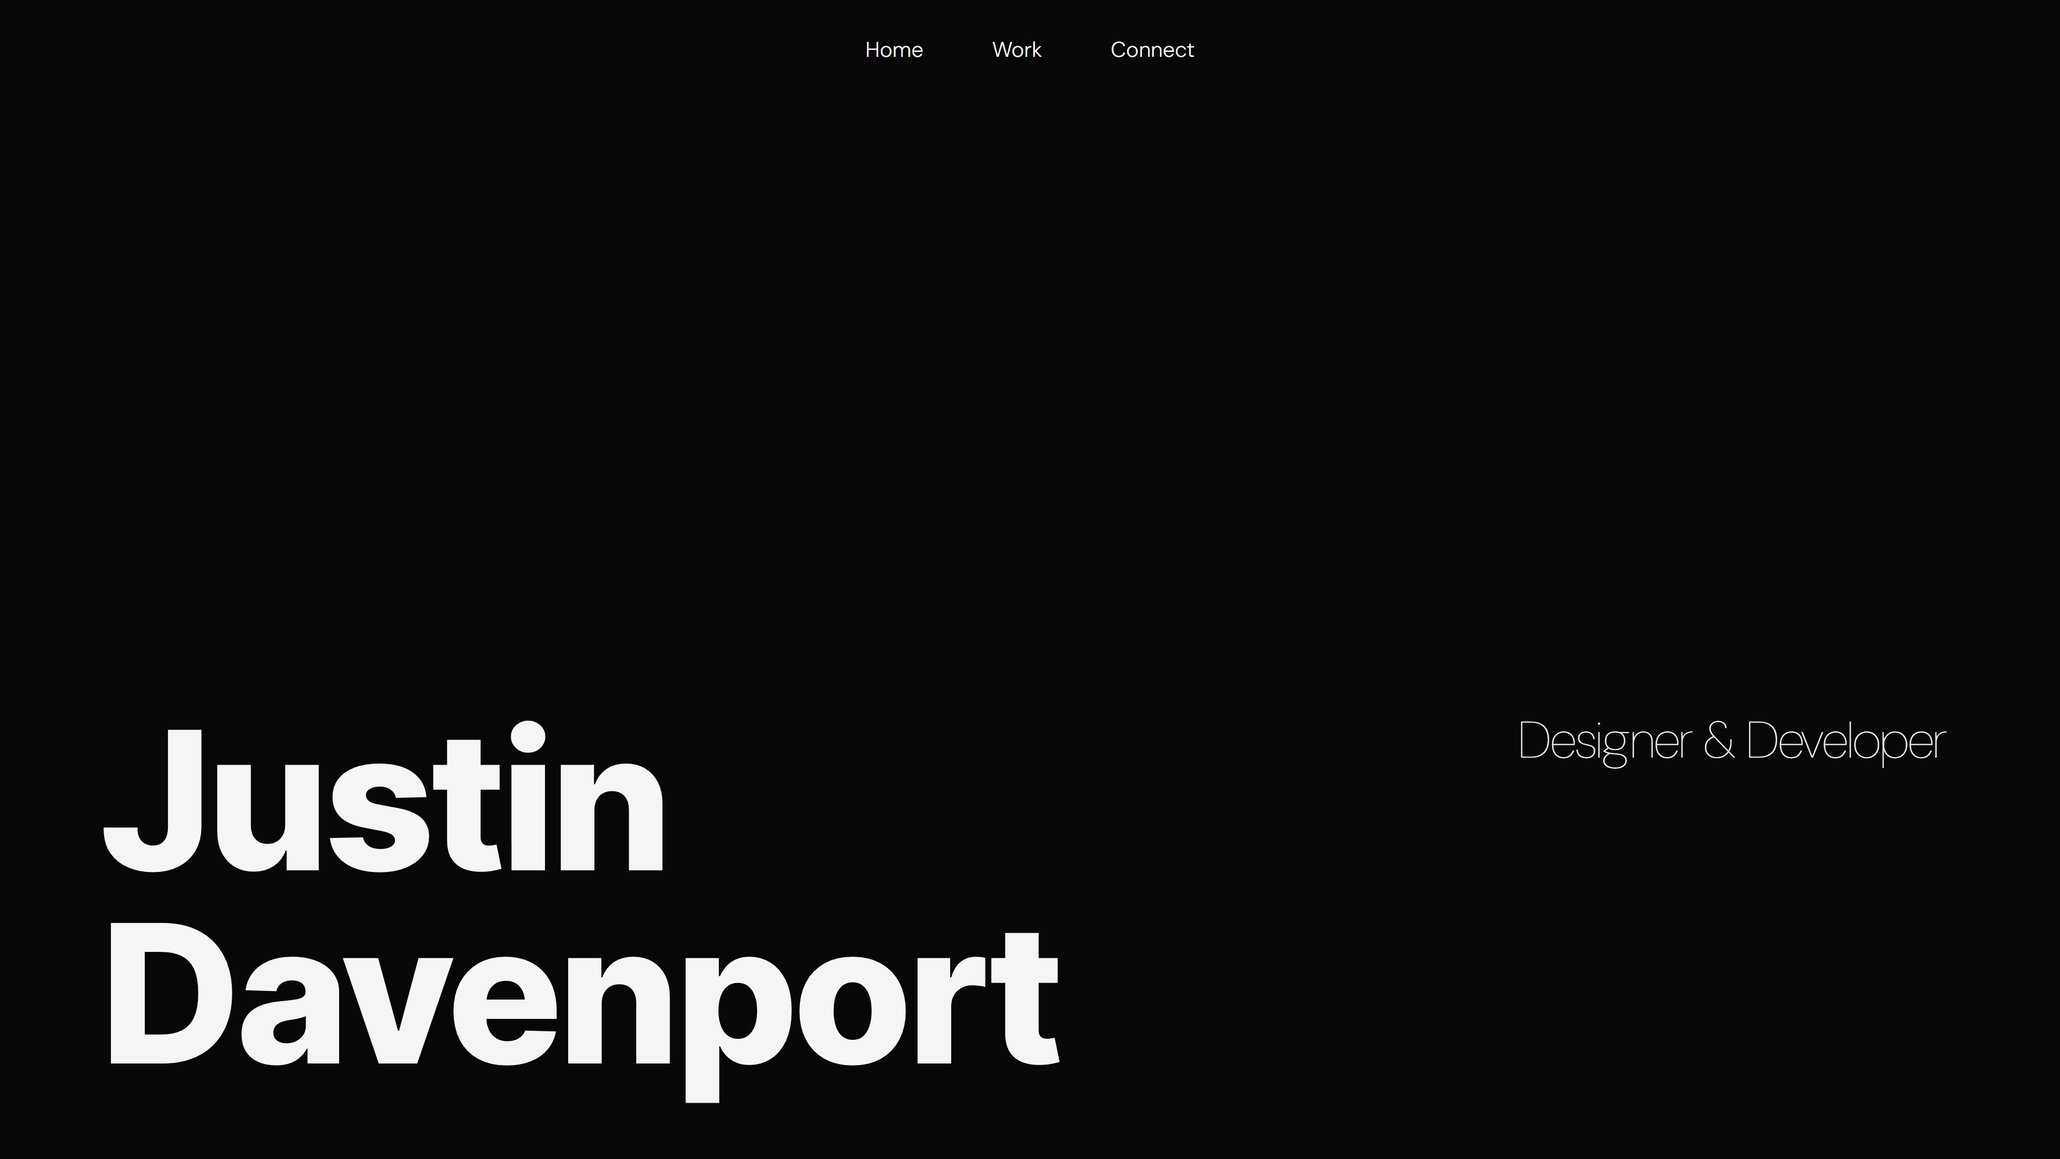
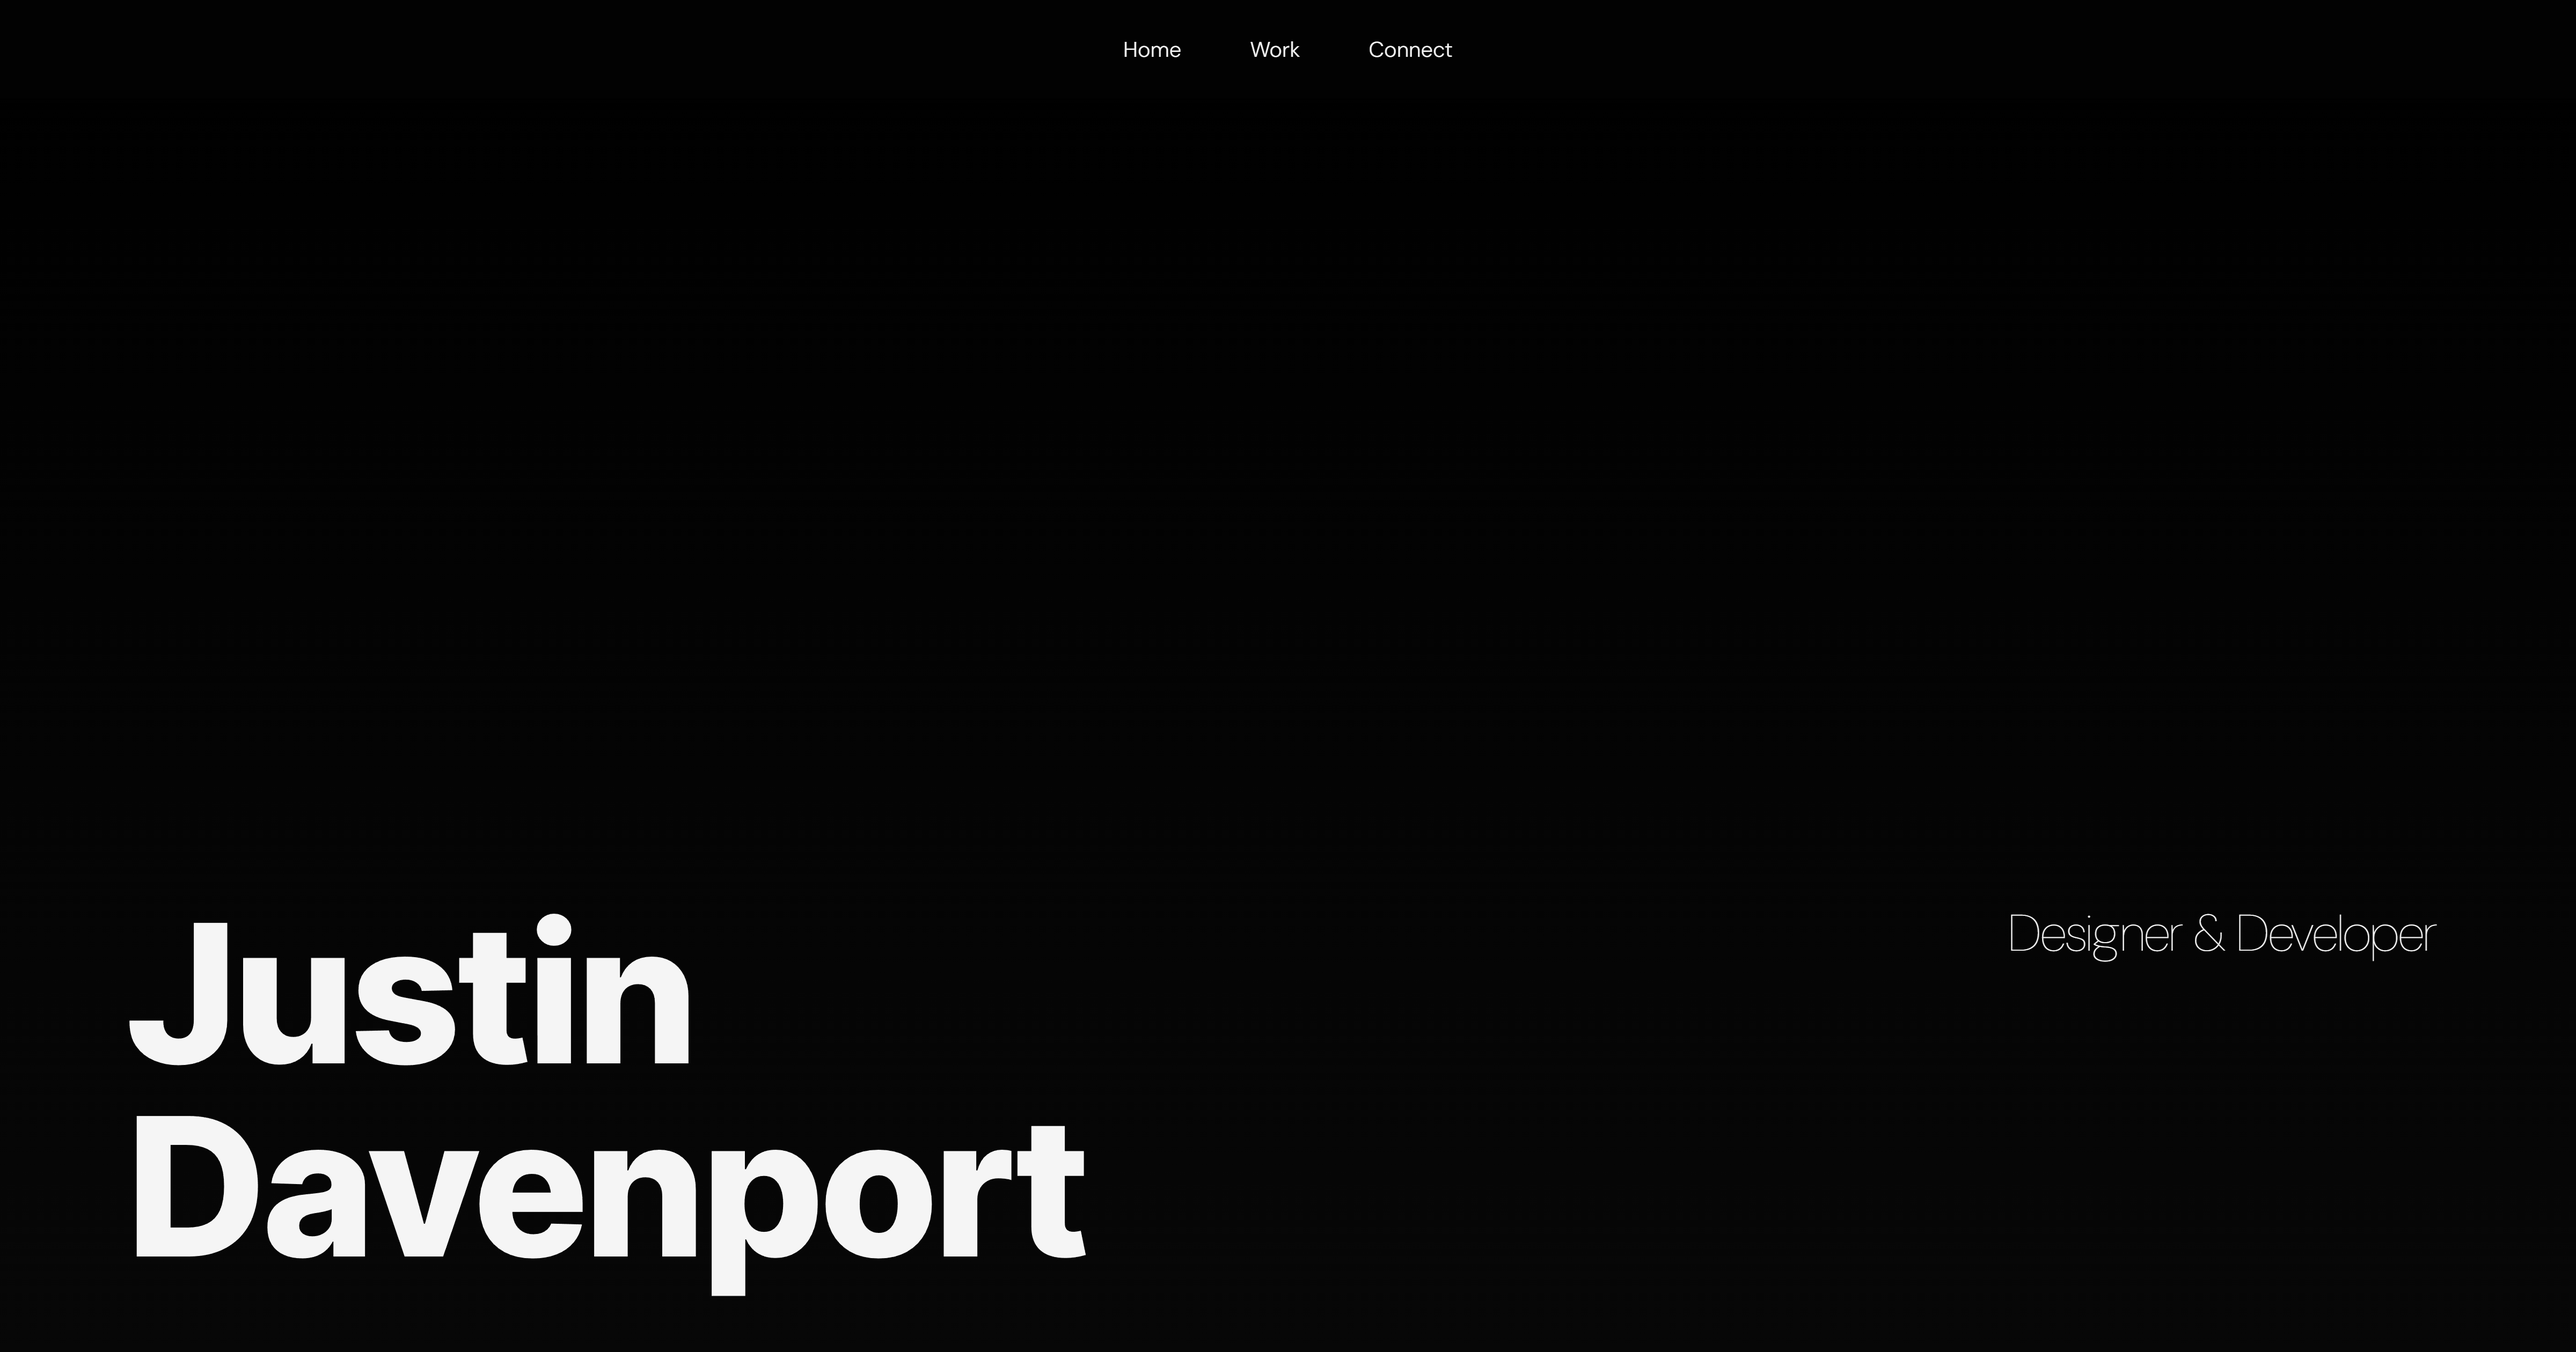
anim

diff --git a/src/app/page.tsx b/src/app/page.tsx
@@ -94,10 +94,12 @@ export default function Home() {
   const ref2 = useRef<HTMLDivElement>(null);
   const ref3 = useRef<HTMLDivElement>(null);
   const ref4 = useRef<HTMLDivElement>(null);
+  const ref5 = useRef<HTMLDivElement>(null);
   const isInView1 = useInView(ref1, { once: true });
   const isInView2 = useInView(ref2, { once: true });
   const isInView3 = useInView(ref3, { once: true });
   const isInView4 = useInView(ref4, { once: true });
+  const isInView5 = useInView(ref5, { once: true });
   const [isVisible, setIsVisible] = useState(false);
   const controls = useAnimation();
 
@@ -144,16 +146,49 @@ export default function Home() {
       <main>
         <div className="nav" ref={nav}>
           <div className="nav-sub">
-            <button onClick={() => scrollTo(homeDiv)}>Home</button>
-            <button onClick={() => scrollTo(workDiv)}>Work</button>
+            <motion.button
+              onClick={() => scrollTo(homeDiv)}
+              whileHover={{ scale: 0.9 }}
+              transition={{
+                type: "spring",
+                stiffness: 260,
+                damping: 20,
+              }}
+            >
+              Home
+            </motion.button>
+            <motion.button
+              onClick={() => scrollTo(workDiv)}
+              whileHover={{ scale: 0.9 }}
+              transition={{
+                type: "spring",
+                stiffness: 260,
+                damping: 20,
+              }}
+            >
+              Work
+            </motion.button>
             {/* <button onClick={() => scrollTo(aboutDiv)}>About</button> */}
-            <button onClick={() => scrollTo(contractDiv)}>Connect</button>
+            <motion.button
+              onClick={() => scrollTo(contractDiv)}
+              whileHover={{ scale: 0.9 }}
+              transition={{
+                type: "spring",
+                stiffness: 260,
+                damping: 20,
+              }}
+            >
+              Connect
+            </motion.button>
           </div>
         </div>
 
         <div
           className="container-holder"
-          style={{ alignItems: "flex-end" }}
+          style={{
+            alignItems: "flex-end",
+            background: "linear-gradient(to bottom, black, #070707)",
+          }}
           ref={homeDiv}
         >
           <div className="container">
@@ -205,7 +240,7 @@ export default function Home() {
                   rel="noopener noreferrer"
                 >
                   ocularvibrations.com&nbsp;
-                  <button
+                  <motion.button
                     style={{
                       width: "2.5rem",
                       height: "2.5rem",
@@ -213,9 +248,15 @@ export default function Home() {
                       borderRadius: "100rem",
                       color: "#070707",
                     }}
+                    whileHover={{ scale: 0.9 }}
+                    transition={{
+                      type: "spring",
+                      stiffness: 260,
+                      damping: 20,
+                    }}
                   >
                     <i className="fa-solid fa-location-arrow fa-xs"></i>
-                  </button>
+                  </motion.button>
                 </Link>
               </div>
             </div>
@@ -344,7 +385,7 @@ export default function Home() {
                   rel="noopener noreferrer"
                 >
                   christiandavenport.studio&nbsp;
-                  <button
+                  <motion.button
                     style={{
                       width: "2.5rem",
                       height: "2.5rem",
@@ -352,9 +393,15 @@ export default function Home() {
                       borderRadius: "100rem",
                       color: "#070707",
                     }}
+                    whileHover={{ scale: 0.9 }}
+                    transition={{
+                      type: "spring",
+                      stiffness: 260,
+                      damping: 20,
+                    }}
                   >
                     <i className="fa-solid fa-location-arrow fa-xs"></i>
-                  </button>
+                  </motion.button>
                 </Link>
               </div>
             </div>
@@ -485,7 +532,7 @@ export default function Home() {
                   rel="noopener noreferrer"
                 >
                   stack.com&nbsp;
-                  <button
+                  <motion.button
                     style={{
                       width: "2.5rem",
                       height: "2.5rem",
@@ -493,9 +540,15 @@ export default function Home() {
                       borderRadius: "100rem",
                       color: "#070707",
                     }}
+                    whileHover={{ scale: 0.9 }}
+                    transition={{
+                      type: "spring",
+                      stiffness: 260,
+                      damping: 20,
+                    }}
                   >
                     <i className="fa-solid fa-location-arrow fa-xs"></i>
-                  </button>
+                  </motion.button>
                 </Link>
               </div>
             </div>
@@ -665,7 +718,12 @@ export default function Home() {
           </div>
         </div> */}
 
-        <div className="container-holder">
+        <div
+          className="container-holder"
+          style={{
+            background: "linear-gradient(to bottom, #070707, black)",
+          }}
+        >
           <div className="container" ref={contractDiv}>
             <div
               style={{
@@ -678,12 +736,24 @@ export default function Home() {
             <div
               style={{
                 display: "flex",
-                paddingTop: "14rem",
+                paddingTop: "4rem",
                 paddingBottom: "4rem",
-                justifyContent: "center",
+                alignItems: "center",
+                flexDirection: "column",
               }}
               ref={ref4}
             >
+              <Image
+                src="/assets/me.jpg"
+                width={250}
+                height={250}
+                alt={""}
+                style={{
+                  borderRadius: "100rem",
+                  width: "250px",
+                  height: "250px",
+                }}
+              />
               <h2
                 style={{
                   opacity: isInView4 ? 1 : 0,
@@ -697,7 +767,7 @@ export default function Home() {
               style={{
                 display: "flex",
                 flexWrap: "wrap",
-                paddingBottom: "14rem",
+                paddingBottom: "8rem",
                 justifyContent: "center",
               }}
             >
@@ -711,15 +781,24 @@ export default function Home() {
                   flexDirection: "column",
                   paddingBlock: "0rem",
                 }}
+                ref={ref5}
               >
                 <h3>Social</h3>
                 <hr />
-                <div
+                <motion.div
                   style={{
                     gap: "0.4rem",
                     display: "flex",
                     width: "fit-content",
                     justifyContent: "center",
+                    scale: isInView5 ? 1 : 0,
+                  }}
+                  animate={{ scale: isInView5 ? 1 : 0 }}
+                  transition={{
+                    type: "spring",
+                    stiffness: 260,
+                    damping: 20,
+                    delay: 0.8,
                   }}
                 >
                   <Link
@@ -727,7 +806,7 @@ export default function Home() {
                     target="_blank"
                     rel="noopener noreferrer"
                   >
-                    <button
+                    <motion.button
                       style={{
                         width: "4rem",
                         height: "4rem",
@@ -735,16 +814,22 @@ export default function Home() {
                         borderRadius: "100rem",
                         color: "#070707",
                       }}
+                      whileHover={{ scale: 0.85 }}
+                      transition={{
+                        type: "spring",
+                        stiffness: 260,
+                        damping: 20,
+                      }}
                     >
                       <i className="fa-brands fa-instagram fa-xl"></i>
-                    </button>
+                    </motion.button>
                   </Link>
                   <Link
                     href="https://dribbble.com/justindavenport"
                     target="_blank"
                     rel="noopener noreferrer"
                   >
-                    <button
+                    <motion.button
                       style={{
                         width: "4rem",
                         height: "4rem",
@@ -752,16 +837,22 @@ export default function Home() {
                         borderRadius: "100rem",
                         color: "#070707",
                       }}
+                      whileHover={{ scale: 0.85 }}
+                      transition={{
+                        type: "spring",
+                        stiffness: 260,
+                        damping: 20,
+                      }}
                     >
                       <i className="fa-brands fa-dribbble fa-xl"></i>
-                    </button>
+                    </motion.button>
                   </Link>
                   <Link
                     href="https://www.behance.net/justindavenportspace"
                     target="_blank"
                     rel="noopener noreferrer"
                   >
-                    <button
+                    <motion.button
                       style={{
                         width: "4rem",
                         height: "4rem",
@@ -769,16 +860,22 @@ export default function Home() {
                         borderRadius: "100rem",
                         color: "#070707",
                       }}
+                      whileHover={{ scale: 0.85 }}
+                      transition={{
+                        type: "spring",
+                        stiffness: 260,
+                        damping: 20,
+                      }}
                     >
                       <i className="fa-brands fa-behance fa-xl"></i>
-                    </button>
+                    </motion.button>
                   </Link>
                   <Link
                     href="https://www.linkedin.com/in/justindavenport99/"
                     target="_blank"
                     rel="noopener noreferrer"
                   >
-                    <button
+                    <motion.button
                       style={{
                         width: "4rem",
                         height: "4rem",
@@ -786,16 +883,22 @@ export default function Home() {
                         borderRadius: "100rem",
                         color: "#070707",
                       }}
+                      whileHover={{ scale: 0.85 }}
+                      transition={{
+                        type: "spring",
+                        stiffness: 260,
+                        damping: 20,
+                      }}
                     >
                       <i className="fa-brands fa-linkedin-in fa-xl"></i>
-                    </button>
+                    </motion.button>
                   </Link>
                   <Link
                     href="https://github.com/Jdavenport3199"
                     target="_blank"
                     rel="noopener noreferrer"
                   >
-                    <button
+                    <motion.button
                       style={{
                         width: "4rem",
                         height: "4rem",
@@ -803,11 +906,17 @@ export default function Home() {
                         borderRadius: "100rem",
                         color: "#070707",
                       }}
+                      whileHover={{ scale: 0.85 }}
+                      transition={{
+                        type: "spring",
+                        stiffness: 260,
+                        damping: 20,
+                      }}
                     >
                       <i className="fa-brands fa-github fa-xl"></i>
-                    </button>
+                    </motion.button>
                   </Link>
-                </div>
+                </motion.div>
               </div>
             </div>
 

diff --git a/src/app/globals.css b/src/app/globals.css
@@ -113,7 +113,7 @@
 
   a:hover,
   button:hover {
-    opacity: 0.4;
+    opacity: 0.65;
     transition: 150ms linear;
   }
 
@@ -201,7 +201,7 @@
     justify-content: center;
     align-items: center;
     gap: 2rem;
-    background: #070707;
+    background: #07070740;
     width: 100%;
     padding-block: 1rem;
     backdrop-filter: blur(20px);
